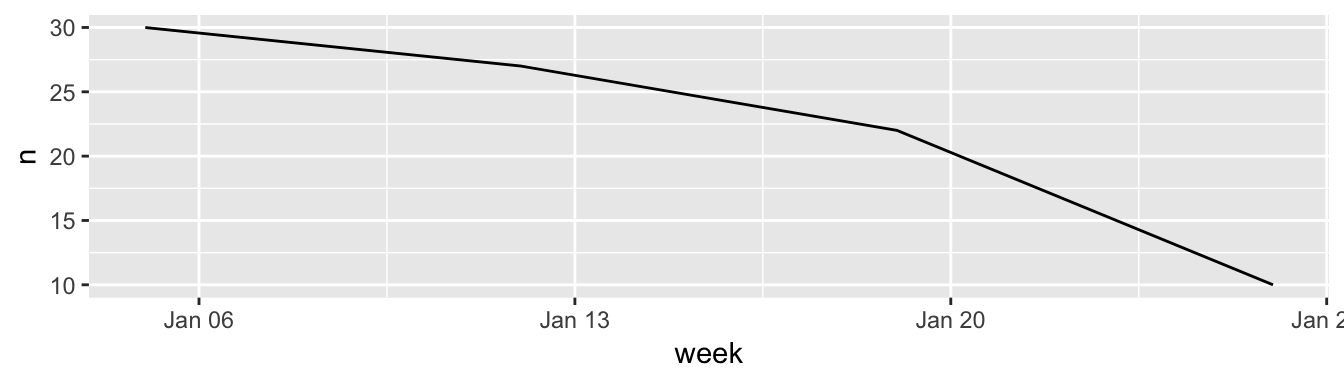
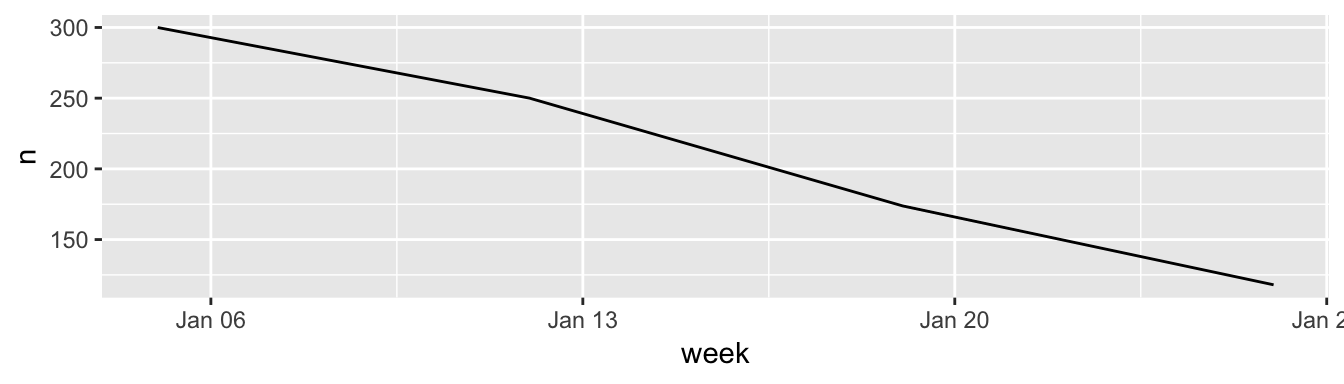
removing drafts

diff --git a/content/blog/2019-11-08-funneljoin.html b/content/blog/2019-11-08-funneljoin.html
@@ -6,7 +6,7 @@ slug: funnel-charts-funneljoin
 categories: []
 tags: []
 description: 
-draft: true
+draft: false
 output:
   blogdown::html_page:
     toc: true 
@@ -68,7 +68,7 @@ library(ggplot2)
 
 set.seed(24)</code></pre>
 <pre class="r"><code>logs</code></pre>
-<pre><code>## # A tibble: 187 x 3
+<pre><code>## # A tibble: 1,759 x 3
 ##    date        user event 
 ##    &lt;date&gt;     &lt;int&gt; &lt;chr&gt; 
 ##  1 2020-01-06     1 upload
@@ -80,8 +80,8 @@ set.seed(24)</code></pre>
 ##  7 2020-01-06     7 upload
 ##  8 2020-01-06     8 upload
 ##  9 2020-01-06     9 upload
-## 10 2020-01-06     1 upload
-## # … with 177 more rows</code></pre>
+## 10 2020-01-06    10 upload
+## # … with 1,749 more rows</code></pre>
 <p>This dataset records each time a user
 uploads, submits, or prints
 using the website.</p>
@@ -123,26 +123,31 @@ since I’ll be reusing the same funnel through-out the blog post.</p>
 <pre><code>## # A tibble: 3 x 4
 ##   moment_type nb_step pct_cumulative pct_step
 ##   &lt;fct&gt;         &lt;int&gt;          &lt;dbl&gt;    &lt;dbl&gt;
-## 1 upload           10              1       NA
-## 2 submit           10              1        1
-## 3 print            10              1        1</code></pre>
+## 1 upload          100           1       NA   
+## 2 submit          100           1        1   
+## 3 print            99           0.99     0.99</code></pre>
 <p>At some point,
-all our our customers are submitting and printing uploaded data.
+almost all our our customers are submitting and printing uploaded data.
 But are they printing reports in time to be useful
 (before the end of the week)?</p>
 <pre class="r"><code>logs %&gt;%
   customer_funnel(&quot;first-firstafter&quot;) %&gt;%
   summarise(
-    avg_days_to_submit = mean(days_to_submit), 
-    avg_days_to_print = mean(days_to_print),
-    avg_time_to_complete_funnel = mean(days_to_submit + days_to_print)
+    avg_days_to_submit = mean(days_to_submit, na.rm = TRUE), 
+    avg_days_to_print = mean(days_to_print, na.rm = TRUE),
+    avg_time_to_complete_funnel = mean(
+      days_to_submit + days_to_print,
+      na.rm = TRUE
+    )
   )</code></pre>
 <pre><code>## # A tibble: 1 x 3
 ##   avg_days_to_submit avg_days_to_print avg_time_to_complete_funnel
 ##                &lt;dbl&gt;             &lt;dbl&gt;                       &lt;dbl&gt;
-## 1                3.5               6.1                         9.6</code></pre>
-<p>Something is definitely wrong. On average, customers are waiting printing 9 days
-after uploading. This gap is too big: the data is out-of-date after 5-6 days and
+## 1               4.03              5.37                        9.42</code></pre>
+<p>Something is definitely wrong.
+On average,
+customers are printing 9 days after uploading.
+This gap is too big: the data is out-of-date after 5-6 days and
 is no longer useful. What’s going on?</p>
 <p>Are we using the right <a href="https://robinsones.github.io/funneljoin/reference/after_join.html#details">funnel type</a>?</p>
 </div>
@@ -150,7 +155,7 @@ is no longer useful. What’s going on?</p>
 <h3>Funnel types</h3>
 <p><img src="/blog/funnel-types.png" /></p>
 <p><code>first-firstafter</code> finds the first upload, and then the first submit
-(then print) afterwords.</p>
+(then print) afterwards.</p>
 <p>But this isn’t a safe assumption. Our customers are uploading
 throughout the month.</p>
 <pre class="r"><code>logs %&gt;%
@@ -168,16 +173,19 @@ submit/print event after any user upload.</p>
 <pre class="r"><code>logs %&gt;%
   customer_funnel(&quot;any-firstafter&quot;) %&gt;%
   summarise(
-    avg_days_to_submit = mean(days_to_submit), 
-    avg_days_to_print = mean(days_to_print),
-    avg_time_to_complete_funnel = mean(days_to_submit + days_to_print)
+    avg_days_to_submit = mean(days_to_submit, na.rm = TRUE), 
+    avg_days_to_print = mean(days_to_print, na.rm = TRUE),
+    avg_time_to_complete_funnel = mean(
+      days_to_submit + days_to_print,
+      na.rm = TRUE
+    )
   )</code></pre>
 <pre><code>## # A tibble: 1 x 3
 ##   avg_days_to_submit avg_days_to_print avg_time_to_complete_funnel
 ##                &lt;dbl&gt;             &lt;dbl&gt;                       &lt;dbl&gt;
-## 1               2.37              3.58                        5.96</code></pre>
+## 1               2.84              3.80                        6.64</code></pre>
 <p>This looks better better for our customer.
-However they are still taking almost 6 days on average to complete the funnel. That’s right on the edge of being useless.</p>
+However they are still taking 6 days on average to complete the funnel. That’s right on the edge of being useless.</p>
 </div>
 <div id="gaps" class="section level3">
 <h3>Gaps</h3>
@@ -202,7 +210,7 @@ weekly_customer_funnel %&gt;%
 <pre><code>## # A tibble: 1 x 3
 ##   avg_days_to_submit avg_days_to_print avg_time_to_complete_funnel
 ##                &lt;dbl&gt;             &lt;dbl&gt;                       &lt;dbl&gt;
-## 1               1.81              2.06                        3.82</code></pre>
+## 1               1.93              2.04                        3.96</code></pre>
 <p>So for customers who print reports at most 5 days after uploading,
 on average
 they print reports about 4 days after uploading.
@@ -218,10 +226,10 @@ never print reports, even though they upload data?</p>
 <pre><code>## # A tibble: 3 x 4
 ##   moment_type nb_step pct_cumulative pct_step
 ##   &lt;fct&gt;         &lt;int&gt;          &lt;dbl&gt;    &lt;dbl&gt;
-## 1 upload           89          1       NA    
-## 2 submit           85          0.955    0.955
-## 3 print            65          0.730    0.765</code></pre>
-<p>Around 25% of data uploaded isn’t printed off as a report.
+## 1 upload          842          1       NA    
+## 2 submit          749          0.890    0.890
+## 3 print           584          0.694    0.780</code></pre>
+<p>Around 30% of data uploaded isn’t printed off as a report.
 What’s going on?
 Let’s look at the trend over time.</p>
 <p>This is a little messy,
@@ -235,10 +243,10 @@ but the goal is to calculate the conversation rate by week of upload.</p>
 <pre><code>## # A tibble: 4 x 4
 ##   upload_week nb_users nb_conversions pct_converted
 ##   &lt;date&gt;         &lt;int&gt;          &lt;int&gt;         &lt;dbl&gt;
-## 1 2020-01-05        30              9         0.3  
-## 2 2020-01-12        27             26         0.963
-## 3 2020-01-19        22             20         0.909
-## 4 2020-01-26        10             10         1</code></pre>
+## 1 2020-01-05       300            132         0.44 
+## 2 2020-01-12       250            184         0.736
+## 3 2020-01-19       174            150         0.862
+## 4 2020-01-26       118            118         1</code></pre>
 <p>Early in the month,
 our users print reports much less often.
 But by the end of the month,

diff --git a/content/blog/2019-11-09-funneljoin-gap.html b/content/blog/2019-11-09-funneljoin-gap.html
@@ -6,7 +6,7 @@ slug: funnel-charts-funneljoin-gaps-deadlines
 categories: []
 tags: []
 description: 
-draft: true
+draft: false
 output:
   blogdown::html_page:
     toc: true 
@@ -78,7 +78,7 @@ library(lubridate)
 
 logs &lt;- readRDS(&quot;funneljoin-logs.RDS&quot;)
 logs</code></pre>
-<pre><code>## # A tibble: 187 x 3
+<pre><code>## # A tibble: 1,759 x 3
 ##    date        user event 
 ##    &lt;date&gt;     &lt;int&gt; &lt;chr&gt; 
 ##  1 2020-01-06     1 upload
@@ -90,8 +90,8 @@ logs</code></pre>
 ##  7 2020-01-06     7 upload
 ##  8 2020-01-06     8 upload
 ##  9 2020-01-06     9 upload
-## 10 2020-01-06     1 upload
-## # … with 177 more rows</code></pre>
+## 10 2020-01-06    10 upload
+## # … with 1,749 more rows</code></pre>
 <p>We want to separate the logs based on their deadline,
 which is the week of the upload.
 We can do that with <code>lubridate::floor_date</code> and
@@ -136,10 +136,10 @@ We’ll use <code>purrr::map</code> to calculate the conversions for each set of
 <pre><code>## # A tibble: 4 x 4
 ##   deadline   nb_users nb_conversions pct_converted
 ##   &lt;date&gt;        &lt;int&gt;          &lt;int&gt;         &lt;dbl&gt;
-## 1 2020-01-05       30              9         0.3  
-## 2 2020-01-12       27             26         0.963
-## 3 2020-01-19       22             20         0.909
-## 4 2020-01-26       10             10         1</code></pre>
+## 1 2020-01-05      300            132         0.44 
+## 2 2020-01-12      250            184         0.736
+## 3 2020-01-19      174            150         0.862
+## 4 2020-01-26      118            118         1</code></pre>
 <p>In this case,
 the conversion percentages are the same whether we use gaps or deadline.</p>
 <p>However, this isn’t real data.
@@ -171,21 +171,21 @@ when looking for the next step in the funnel.</p>
     type = &quot;any-firstafter&quot;
   ) %&gt;%
   select(date_upload, date_print)</code></pre>
-<pre><code>## # A tibble: 1,749 x 3
+<pre><code>## # A tibble: 5,476 x 3
 ## # Groups:   week_upload.x.x [4]
 ##    week_upload.x.x date_upload date_print
 ##              &lt;dbl&gt; &lt;date&gt;      &lt;date&gt;    
-##  1               1 2020-01-06  2020-01-17
-##  2               1 2020-01-06  2020-01-24
-##  3               1 2020-01-06  2020-01-17
-##  4               1 2020-01-06  2020-01-24
-##  5               1 2020-01-06  2020-01-17
-##  6               1 2020-01-06  2020-01-24
-##  7               1 2020-01-06  2020-01-17
-##  8               1 2020-01-06  2020-01-24
-##  9               1 2020-01-06  2020-01-17
-## 10               1 2020-01-06  2020-01-24
-## # … with 1,739 more rows</code></pre>
+##  1               1 2020-01-06  2020-01-24
+##  2               1 2020-01-06  2020-01-31
+##  3               1 2020-01-06  2020-01-24
+##  4               1 2020-01-06  2020-01-31
+##  5               1 2020-01-06  2020-01-24
+##  6               1 2020-01-06  2020-01-31
+##  7               1 2020-01-06  2020-01-24
+##  8               1 2020-01-06  2020-01-31
+##  9               1 2020-01-06  2020-01-24
+## 10               1 2020-01-06  2020-01-31
+## # … with 5,466 more rows</code></pre>
 <p>But <code>funneljoin</code> finds the <code>firstafter</code> print date outside of the week
 of the upload (the group parameter for the data-frame).</p>
 <p>I want to find the <code>firstafter</code> inside the week of the upload
